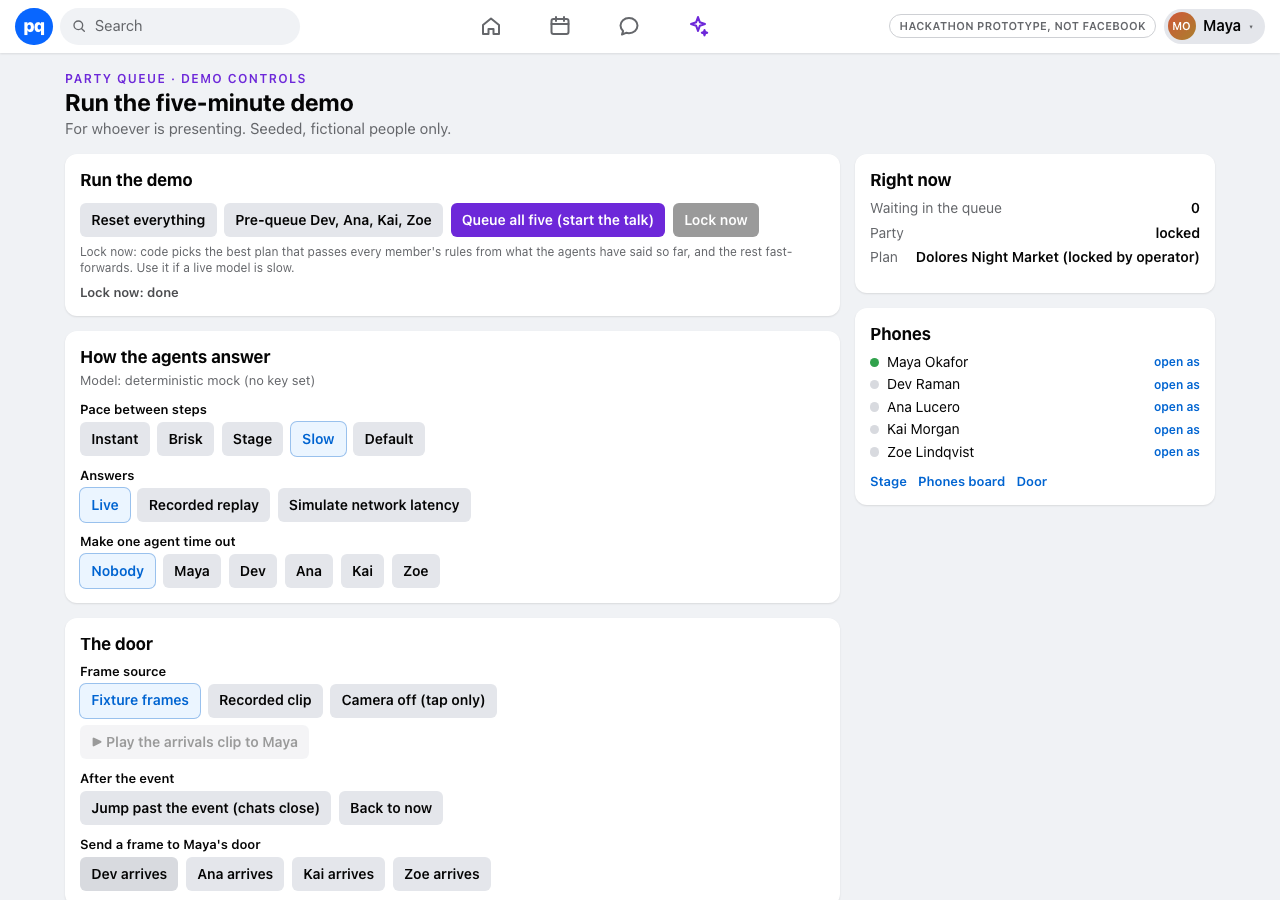
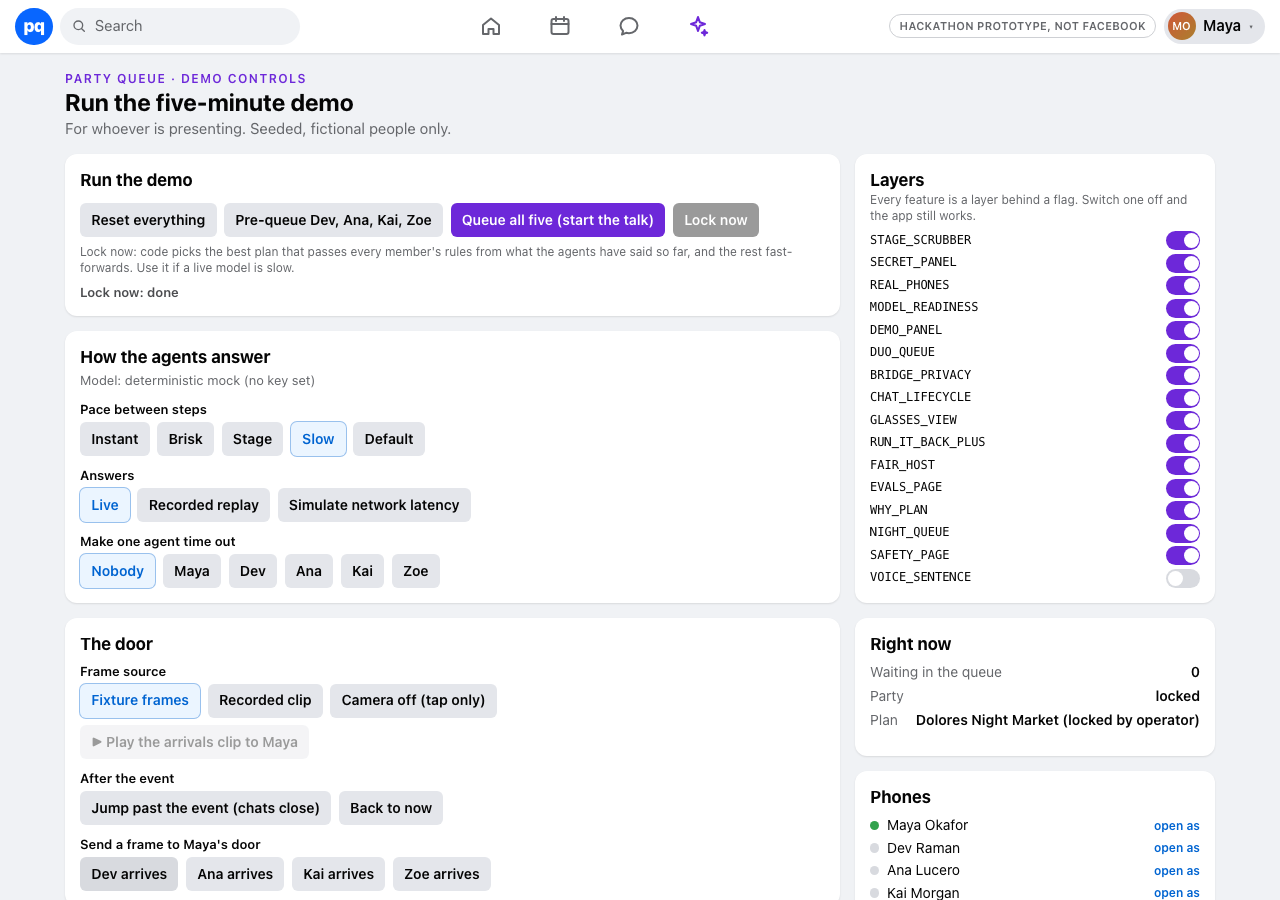
F16: Voice sentence, off by default, and layer switches
'Say it instead' fills the sentence box from the browser's speech
recognition when the flag is on and the browser supports it, with a
disclosure that audio may go to the browser vendor; typing always works.
Off by default. Adds runtime flag overrides and a Layers panel on /demo with
a switch per flag.

diff --git a/tests/voice.spec.ts b/tests/voice.spec.ts
@@ -1,0 +1,57 @@
+import { expect, test } from "@playwright/test";
+import { DEMO_PARTY } from "../fixtures/demo";
+
+/* F16: say your sentence instead of typing it. Off by default; typing always works. */
+
+const PHONE = { viewport: { width: 390, height: 844 }, isMobile: true, hasTouch: true };
+
+// A stand-in recognizer: real speech can't be spoken into a test browser.
+const fakeSpeech = (text: string) => `
+  window.SpeechRecognition = window.webkitSpeechRecognition = class {
+    start() { setTimeout(() => { this.onresult && this.onresult({ results: [[{ transcript: ${JSON.stringify(text)} }]] }); this.onend && this.onend(); }, 150); }
+    stop() { this.onend && this.onend(); }
+  };`;
+
+test("voice: off by default; when on, the spoken sentence fills the box and the brief", async ({ browser, baseURL, request }) => {
+  await request.post("/api/demo/reset");
+  try {
+    // Off by default: no voice button.
+    const off = await browser.newContext(PHONE);
+    await off.addCookies([{ name: "pq_viewer", value: "maya", url: baseURL! }]);
+    await off.addInitScript(fakeSpeech("anything"));
+    const p0 = await off.newPage();
+    await p0.goto(`/queue?event=${DEMO_PARTY.entryEventId}`);
+    await expect(p0.getByTestId("sentence")).toBeVisible();
+    await expect(p0.getByTestId("voice-button")).toHaveCount(0);
+    await off.close();
+
+    // Turned on from /demo's layers: say it instead.
+    await request.post("/api/demo/flags", { data: { name: "VOICE_SENTENCE", value: true } });
+    const on = await browser.newContext(PHONE);
+    await on.addCookies([{ name: "pq_viewer", value: "maya", url: baseURL! }]);
+    await on.addInitScript(fakeSpeech(DEMO_PARTY.sentences.maya!));
+    const p = await on.newPage();
+    await p.goto(`/queue?event=${DEMO_PARTY.entryEventId}`);
+    await expect(p.locator("[data-live=on]")).toHaveCount(1, { timeout: 30_000 });
+    await expect(p.getByTestId("voice")).toContainText("Typing always works");
+    await p.getByTestId("voice-button").tap();
+    await expect(p.getByTestId("sentence")).toHaveValue(DEMO_PARTY.sentences.maya!);
+    await expect(p.getByTestId("brief-preview")).toContainText("No drink minimum");
+    await p.screenshot({ path: "shots/f16-voice.png", animations: "disabled" });
+    await on.close();
+
+    // A browser that can't do speech: no button, and typing still works.
+    const none = await browser.newContext(PHONE);
+    await none.addCookies([{ name: "pq_viewer", value: "maya", url: baseURL! }]);
+    await none.addInitScript("delete window.webkitSpeechRecognition; delete window.SpeechRecognition;");
+    const p2 = await none.newPage();
+    await p2.goto(`/queue?event=${DEMO_PARTY.entryEventId}`);
+    await expect(p2.locator("[data-live=on]")).toHaveCount(1, { timeout: 30_000 });
+    await expect(p2.getByTestId("voice-button")).toHaveCount(0);
+    await p2.getByTestId("sentence").fill("home by 10, sober night please");
+    await expect(p2.getByTestId("brief-preview")).toContainText("Done by 10 PM");
+    await none.close();
+  } finally {
+    await request.post("/api/demo/flags", { data: { name: "VOICE_SENTENCE", value: null } });
+  }
+});

diff --git a/components/queue/VoiceButton.tsx b/components/queue/VoiceButton.tsx
@@ -1,0 +1,73 @@
+"use client";
+
+import { useEffect, useRef, useState } from "react";
+
+type Rec = {
+  lang: string;
+  interimResults: boolean;
+  maxAlternatives: number;
+  start: () => void;
+  stop: () => void;
+  onresult: ((e: { results: ArrayLike<ArrayLike<{ transcript: string }>> }) => void) | null;
+  onerror: ((e: { error?: string }) => void) | null;
+  onend: (() => void) | null;
+};
+
+function recognizer(): (new () => Rec) | null {
+  if (typeof window === "undefined") return null;
+  const w = window as unknown as { SpeechRecognition?: new () => Rec; webkitSpeechRecognition?: new () => Rec };
+  return w.SpeechRecognition ?? w.webkitSpeechRecognition ?? null;
+}
+
+/**
+ * Say your sentence instead of typing it. Shown only when the flag is on and
+ * the browser can do it; the text lands in the box, where you can edit it.
+ * Typing always works.
+ */
+export function VoiceButton({ onText }: { onText: (text: string) => void }) {
+  const [supported, setSupported] = useState(false);
+  const [state, setState] = useState<"idle" | "listening" | "error">("idle");
+  const rec = useRef<Rec | null>(null);
+
+  useEffect(() => setSupported(!!recognizer()), []);
+  if (!supported) return null;
+
+  const start = () => {
+    const R = recognizer();
+    if (!R) return;
+    const r = new R();
+    r.lang = "en-US";
+    r.interimResults = false;
+    r.maxAlternatives = 1;
+    r.onresult = (e) => {
+      const text = Array.from(e.results)
+        .map((x) => x[0]?.transcript ?? "")
+        .join(" ")
+        .trim();
+      if (text) onText(text);
+      setState("idle");
+    };
+    r.onerror = () => setState("error");
+    r.onend = () => setState((s) => (s === "listening" ? "idle" : s));
+    rec.current = r;
+    setState("listening");
+    r.start();
+  };
+
+  return (
+    <div className="mt-1" data-testid="voice">
+      <button
+        type="button"
+        onClick={() => (state === "listening" ? rec.current?.stop() : start())}
+        data-testid="voice-button"
+        data-state={state}
+        className={`press inline-flex items-center gap-1.5 rounded-full px-3 py-1 text-[13px] font-semibold ${state === "listening" ? "bg-[var(--color-badge)] text-white" : "bg-[var(--color-pq-soft)] text-[var(--color-pq)]"}`}
+      >
+        <span className={`h-2 w-2 rounded-full ${state === "listening" ? "animate-pulse bg-white" : "bg-[var(--color-pq)]"}`} />
+        {state === "listening" ? "Listening… tap to stop" : "Say it instead"}
+      </button>
+      {state === "error" && <span className="ml-2 text-[12px] text-[var(--color-badge)]">Couldn't hear that. Type it instead.</span>}
+      <div className="mt-0.5 text-[11px] text-[var(--color-ink-2)]">Uses your browser's speech recognition, which may send audio to your browser's provider. Typing always works.</div>
+    </div>
+  );
+}

diff --git a/components/demo/DemoPanel.tsx b/components/demo/DemoPanel.tsx
@@ -30,6 +30,18 @@ const PACES: { label: string; ms: number | null }[] = [
 export function DemoPanel({ people }: { people: Person[] }) {
   const [st, setSt] = useState<Status | null>(null);
   const [msg, setMsg] = useState<string | null>(null);
+  const [flags, setFlags] = useState<{ name: string; on: boolean; default: boolean }[]>([]);
+  useEffect(() => {
+    fetch("/api/demo/flags", { cache: "no-store" })
+      .then((r) => r.json())
+      .then((b: { flags: typeof flags }) => setFlags(b.flags))
+      .catch(() => {});
+  }, []);
+  const toggleFlag = async (name: string, on: boolean) => {
+    const r = await fetch("/api/demo/flags", { method: "POST", headers: { "content-type": "application/json" }, body: JSON.stringify({ name, value: on }) });
+    if (r.ok) setFlags(((await r.json()) as { flags: typeof flags }).flags);
+    setMsg(`${name} ${on ? "on" : "off"} (reload a page to see it)`);
+  };
   const byId = Object.fromEntries(people.map((p) => [p.id, p]));
 
   const refresh = useCallback(async () => {
@@ -191,6 +203,28 @@ export function DemoPanel({ people }: { people: Person[] }) {
 
       {/* Status */}
       <aside className="space-y-4">
+        {flags.length > 0 && (
+          <section className={card} data-testid="demo-flags">
+            <h2 className="text-[17px] font-bold">Layers</h2>
+            <p className="text-[12px] text-[var(--color-ink-2)]">Every feature is a layer behind a flag. Switch one off and the app still works.</p>
+            <ul className="mt-2 space-y-1">
+              {flags.map((f) => (
+                <li key={f.name} className="flex items-center justify-between gap-2 text-[12px]">
+                  <span className="font-mono">{f.name}</span>
+                  <button
+                    role="switch"
+                    aria-checked={f.on}
+                    data-testid={`flag-${f.name}`}
+                    onClick={() => toggleFlag(f.name, !f.on)}
+                    className={`relative h-5 w-9 shrink-0 rounded-full transition-colors ${f.on ? "bg-[var(--color-pq)]" : "bg-[var(--color-btn-2-hover)]"}`}
+                  >
+                    <span className={`absolute top-0.5 h-4 w-4 rounded-full bg-white transition-all ${f.on ? "left-[18px]" : "left-0.5"}`} />
+                  </button>
+                </li>
+              ))}
+            </ul>
+          </section>
+        )}
         <section className={card} data-testid="demo-status">
           <h2 className="text-[17px] font-bold">Right now</h2>
           <dl className="mt-2 space-y-1.5 text-[14px]">

diff --git a/lib/flags.ts b/lib/flags.ts
@@ -1,6 +1,7 @@
 /**
- * Feature flags. One file, every flag default on.
- * Turn one off on the server with PQ_FLAG_<NAME>=0 (for example PQ_FLAG_STAGE_SCRUBBER=0).
+ * Feature flags. One file. Every flag is on by default except VOICE_SENTENCE.
+ * Turn one off on the server with PQ_FLAG_<NAME>=0 (or on with =1), or at runtime from
+ * /demo (a runtime override wins over the environment until the server restarts).
  * Client components get the value from the server page that renders them.
  */
 
@@ -35,16 +36,31 @@ const DEFAULTS = {
   NIGHT_QUEUE: true,
   /** F15: /safety: what code enforces, block and unblock, leave, and report (the reported person is never told). */
   SAFETY_PAGE: true,
-} as const;
+  /** F16: say your sentence instead of typing it (typing always works). OFF by default: browser speech recognition may send audio to the browser vendor's service. */
+  VOICE_SENTENCE: false,
+} as const satisfies Record<string, boolean>;
 
 export type FlagName = keyof typeof DEFAULTS;
 
+const g = globalThis as unknown as { __pqFlagOverrides?: Partial<Record<FlagName, boolean>> };
+
+export function setFlagOverride(name: FlagName, value: boolean | null) {
+  const o = (g.__pqFlagOverrides ??= {});
+  if (value === null) delete o[name];
+  else o[name] = value;
+}
+
 export function flag(name: FlagName): boolean {
+  const override = g.__pqFlagOverrides?.[name];
+  if (typeof override === "boolean") return override;
   const raw = typeof process !== "undefined" ? process.env?.[`PQ_FLAG_${name}`] : undefined;
   if (raw === "0" || raw === "false" || raw === "off") return false;
   if (raw === "1" || raw === "true" || raw === "on") return true;
   return DEFAULTS[name];
 }
+
+export const FLAG_NAMES = Object.keys(DEFAULTS) as FlagName[];
+export const flagDefault = (name: FlagName): boolean => DEFAULTS[name];
 
 export function allFlags(): Record<FlagName, boolean> {
   return Object.fromEntries((Object.keys(DEFAULTS) as FlagName[]).map((k) => [k, flag(k)])) as Record<FlagName, boolean>;

diff --git a/components/queue/QueueSheet.tsx b/components/queue/QueueSheet.tsx
@@ -5,6 +5,7 @@ import { useEffect, useMemo, useRef, useState } from "react";
 import type { HardRule, Preference, ShareableLine } from "@/contracts";
 import { IconSparkle } from "@/components/icons";
 import { useLiveEvents } from "@/components/live/LiveProvider";
+import { VoiceButton } from "./VoiceButton";
 import { clock12 } from "@/lib/format";
 
 interface Preview {
@@ -66,6 +67,7 @@ export function QueueSheet({
   invitedBy = null,
   duoEnabled = true,
   night = null,
+  voice = false,
 }: {
   eventId: string;
   landmark: string;
@@ -78,6 +80,8 @@ export function QueueSheet({
   duoEnabled?: boolean;
   /** Whole-night option: how many events there are near here, and tonight anywhere. */
   night?: { nearCount: number; tonightCount: number } | null;
+  /** F16: offer "Say it instead" (off by default). */
+  voice?: boolean;
 }) {
   const [sentence, setSentence] = useState("");
   const [preview, setPreview] = useState<Preview | null>(null);
@@ -234,6 +238,7 @@ export function QueueSheet({
         rows={3}
         className="mt-2 w-full resize-none rounded-[8px] border border-[var(--color-divider)] bg-white px-3 py-2 text-[17px] outline-none focus:border-[var(--color-pq)] focus:ring-2 focus:ring-[var(--color-pq-soft)]"
       />
+      {voice && <VoiceButton onText={(t) => setSentence(t.slice(0, 280))} />}
 
       {preview && (
         <div className="mt-3 rounded-[8px] border border-[var(--color-divider)]" data-testid="brief-preview">

diff --git a/tests/unit/voice.test.ts b/tests/unit/voice.test.ts
@@ -1,0 +1,24 @@
+import { afterEach, describe, expect, it } from "vitest";
+import { FLAG_NAMES, flag, flagDefault, setFlagOverride } from "@/lib/flags";
+
+afterEach(() => setFlagOverride("VOICE_SENTENCE", null));
+
+describe("voice sentence and runtime flags (F16)", () => {
+  it("voice is off by default; every other layer is on by default", () => {
+    expect(flag("VOICE_SENTENCE")).toBe(false);
+    for (const name of FLAG_NAMES.filter((n) => n !== "VOICE_SENTENCE")) expect(flagDefault(name), name).toBe(true);
+  });
+
+  it("a runtime override wins, and null puts the default back", () => {
+    setFlagOverride("VOICE_SENTENCE", true);
+    expect(flag("VOICE_SENTENCE")).toBe(true);
+    setFlagOverride("VOICE_SENTENCE", null);
+    expect(flag("VOICE_SENTENCE")).toBe(false);
+  });
+
+  it("the environment can turn it on too", () => {
+    process.env.PQ_FLAG_VOICE_SENTENCE = "1";
+    expect(flag("VOICE_SENTENCE")).toBe(true);
+    delete process.env.PQ_FLAG_VOICE_SENTENCE;
+  });
+});

diff --git a/app/api/demo/flags/route.ts b/app/api/demo/flags/route.ts
@@ -1,0 +1,24 @@
+import { NextResponse } from "next/server";
+import { z } from "zod";
+import { FLAG_NAMES, allFlags, flagDefault, setFlagOverride, type FlagName } from "@/lib/flags";
+
+export const dynamic = "force-dynamic";
+
+const Body = z.object({ name: z.string(), value: z.boolean().nullable() });
+
+function list() {
+  const now = allFlags();
+  return FLAG_NAMES.map((name) => ({ name, on: now[name], default: flagDefault(name) }));
+}
+
+export function GET() {
+  return NextResponse.json({ flags: list() });
+}
+
+/** Demo control: turn a layer on or off at runtime (null = back to its default). */
+export async function POST(req: Request) {
+  const body = Body.safeParse(await req.json().catch(() => null));
+  if (!body.success || !(FLAG_NAMES as string[]).includes(body.data.name)) return NextResponse.json({ error: "unknown flag" }, { status: 400 });
+  setFlagOverride(body.data.name as FlagName, body.data.value);
+  return NextResponse.json({ flags: list() });
+}

diff --git a/app/queue/page.tsx b/app/queue/page.tsx
@@ -70,6 +70,7 @@ export default async function QueuePage({ searchParams }: { searchParams: Promis
             friends={friends}
             invitedBy={inviter}
             duoEnabled={duoOn}
+            voice={flag("VOICE_SENTENCE")}
             night={flag("NIGHT_QUEUE") ? { nearCount: candidatePlans(e.landmark, e.date).length, tonightCount: nightPlans(e.date).length } : null}
             initialStatus={
               active

diff --git a/FEATURES.md b/FEATURES.md
@@ -39,7 +39,7 @@ hues (spread across the wheel, layout picked from a title hash).
 | 13 | A "why this plan" card built from code checks only | `WHY_PLAN` | done (F13) | see Done |
 | 14 | Queue for a whole night across several events | `NIGHT_QUEUE` | done (F14) | see Done |
 | 15 | Safety page: 18+, public venues, blocks, leave and report | `SAFETY_PAGE` | done (F15) | see Done |
-| 16 | Voice sentence with a typed fallback, off by default | | todo | |
+| 16 | Voice sentence with a typed fallback, off by default | `VOICE_SENTENCE` (off) | done (F16) | see Done |
 | 17 | Loading, empty and error states, mobile and accessibility polish | | todo | |
 | 18 | README, an architecture diagram and a Devpost draft | | todo | |
 
@@ -62,3 +62,4 @@ hues (spread across the wheel, layout picked from a title hash).
 | F13 | "Why this plan" on `/party`, built only from code: your own rule checks against the plan's real values ("Done by 11 PM: ends 10 PM"), everyone else's rules only as "all passed" (no words, and no rule ids, since an id like `hr-dev-price` would say what kind of rule Dev has), the public-venue check, the plan's rank among plans that worked for all five (no one's own numbers), how many plans were unavailable (no reasons), and how it was locked. The card says no model wrote it. | `WHY_PLAN` | `npm test -- why`: `Tests 5 passed` (Maya's three checks; Dev's card holds none of Maya's words or rule ids; rank, unavailable count and lock lines; members only). `npx playwright test tests/why.spec.ts`: `✓ why this plan: your own checks, everyone else's only as 'all passed' (6.1s)`. Gate: typecheck exit 0, `Tests 118 passed (118)`, demo path `1 passed (10.8s)`. `shots/f13-why-plan.png` |
 | F14 | Queue for a whole night. The queue sheet offers "Near Dolores Park (5 events)" or "Anywhere tonight (9 events)". A whole-night entry joins every landmark's queue that evening; if anyone in the party queued for one place, the plans are that place's; if all five are whole-night, the agents choose from every party-eligible event that evening across the city (a 9 AM walk doesn't count). The landmark rule now applies only to people tied to one place; different nights are still caught by the shared-window rule. | `NIGHT_QUEUE` | `npm test -- night`: `Tests 5 passed` (a whole-night entry fills a Dolores Park party; five whole-night people get 9 plans across 4+ landmarks and lock a plan that passes everyone's rules; one-place entries still don't mix; whole-night queue counts). `npx playwright test tests/night.spec.ts`: `✓ whole night: Maya queues for anywhere tonight; the agents pick among events across the city (6.8s)`. Gate: typecheck exit 0, `Tests 123 passed (123)`, demo path `1 passed (10.8s)`, `contract:check PASS - 331/331`. `shots/f14-scope.png`, `shots/f14-night-table.png` |
 | F15 | Safety page at `/safety` (linked from the Events rail and `/party`): what code always enforces (18+, public places only, your rules, blocks, who's in your party, nothing from faces), Leave (before the lock from here, or from the queue), and the people from your parties with Block and Report. A report goes to a review store, can also block, publishes no event and is never shown in the app; you can only report someone you've been in a party with. | `SAFETY_PAGE` | `npm test -- safety`: `Tests 5 passed` (report only for party people; stored, optional block, no event, invisible to every member; a block keeps two people out of one party; unblock; no self-block). `npx playwright test tests/safety.spec.ts`: `✓ safety: block and report from your party, and the other person hears nothing`, `✓ safety: leave before the plan is set, from the safety page`. Gate: typecheck exit 0, `Tests 128 passed (128)`, demo path `1 passed (10.9s)` (one phone read -1 ms: rounding in the server-clock estimate; acks clamp at 0). `shots/f15-safety.png`, `shots/f15-report.png` |
+| F16 | Voice sentence, **off by default** (browser speech recognition may send audio to the browser vendor's service). When on and the browser supports it, "Say it instead" under the sentence box fills the box (still editable), with that disclosure inline; if it can't hear you it says to type instead; unsupported browsers just see the box. Also: runtime flag overrides (`/api/demo/flags`), and a **Layers** panel on `/demo` with a switch per flag, so you can show any feature is a removable layer. | `VOICE_SENTENCE` | `npm test -- voice`: `Tests 3 passed` (voice off by default, every other layer on; runtime override and reset; env override). `npx playwright test tests/voice.spec.ts` (a stand-in recognizer, since a test browser can't hear): off by default shows no button; turned on from /demo, the spoken sentence fills the box and the brief; an unsupported browser shows no button and typing works: `✓ voice: off by default; when on, the spoken sentence fills the box and the brief`. Gate: typecheck exit 0, `Tests 132 passed (132)`, demo path `1 passed (10.8s)`. `shots/f16-voice.png` |
